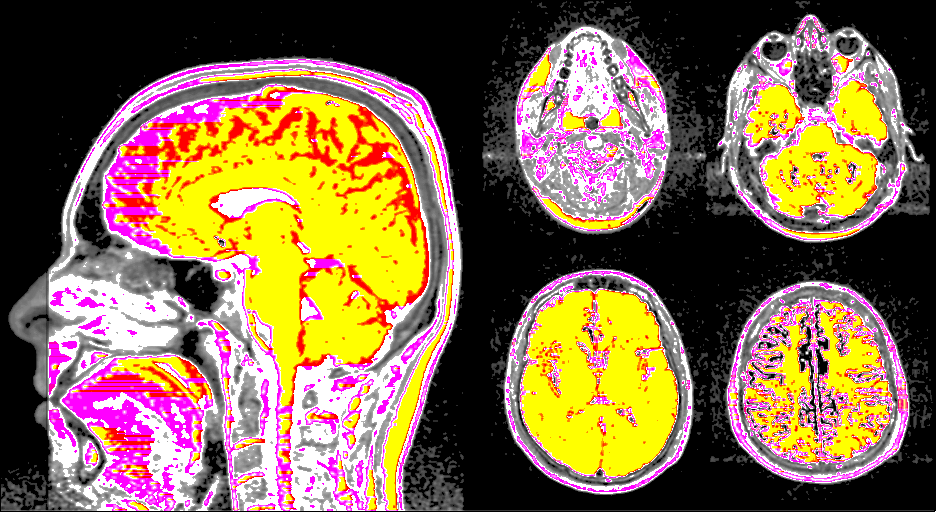
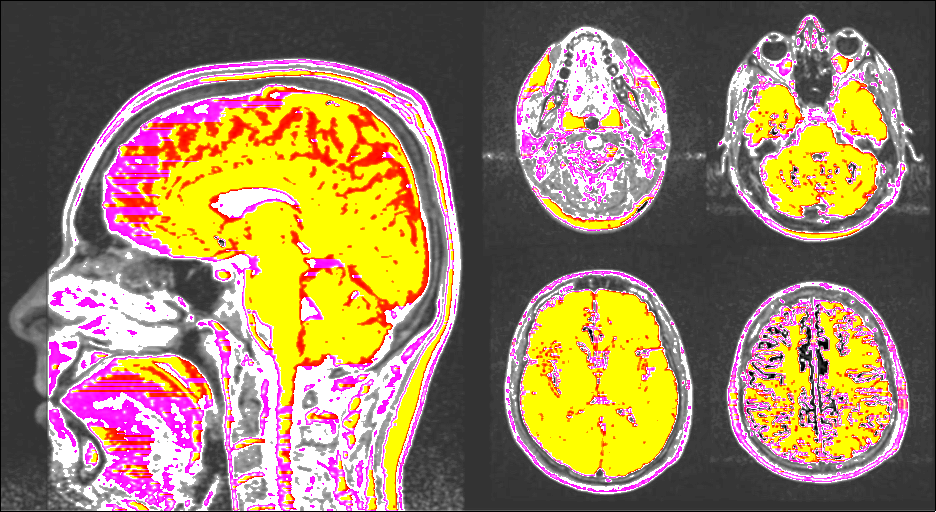
colors adjusted

diff --git a/big_task.c b/big_task.c
@@ -245,12 +245,12 @@ void fill(unsigned char *pic, int width, int height, int start_x, int start_y, c
 	}
 }
 void difficult_colorization(unsigned char *pic, int width, int height, int start_x, int start_y){
-	int color = 15;
-	for(int i=start_x;i<width-10;i+=10)
-		for(int j=start_y; j<height-10; j+=10)
-			{
+	int color = 1, cnt=4;
+	for(int i=start_x;i<width-5;i+=5)
+		for(int j=start_y; j<height-5; j+=5){
 				fill(pic, width, height, i, j, color);
-				color= (color+7)%255;
+				color= (color+cnt);
+				cnt++;
 		}
 }
 
@@ -292,13 +292,13 @@ int main()
 	Gauss_blur(bw_pic, blr_pic, width, height); 
 	bw_to_pic(finish, blr_pic, size);
 	simple_colorization(finish,size);
-	contrast(finish, size,45, 175); 
+	contrast(finish, size,5, 175); 
 	write_png("simple.png", finish, width, height);
 	printf("Выполнено. \nПромежуточный результат сохранен в файл simple.png\n");
 	
 	//контраст
 	printf("Увеличение контраста...  ");
-	contrast(bw_pic, bw_size,15, 125); 
+	contrast(bw_pic, bw_size,45, 125); 
 	bw_to_pic(finish, bw_pic, size);
 	write_png("contrast.png", finish, width, height);
 	printf("Выполнено. \nПромежуточный результат сохранен в файл contrast.png\n");
